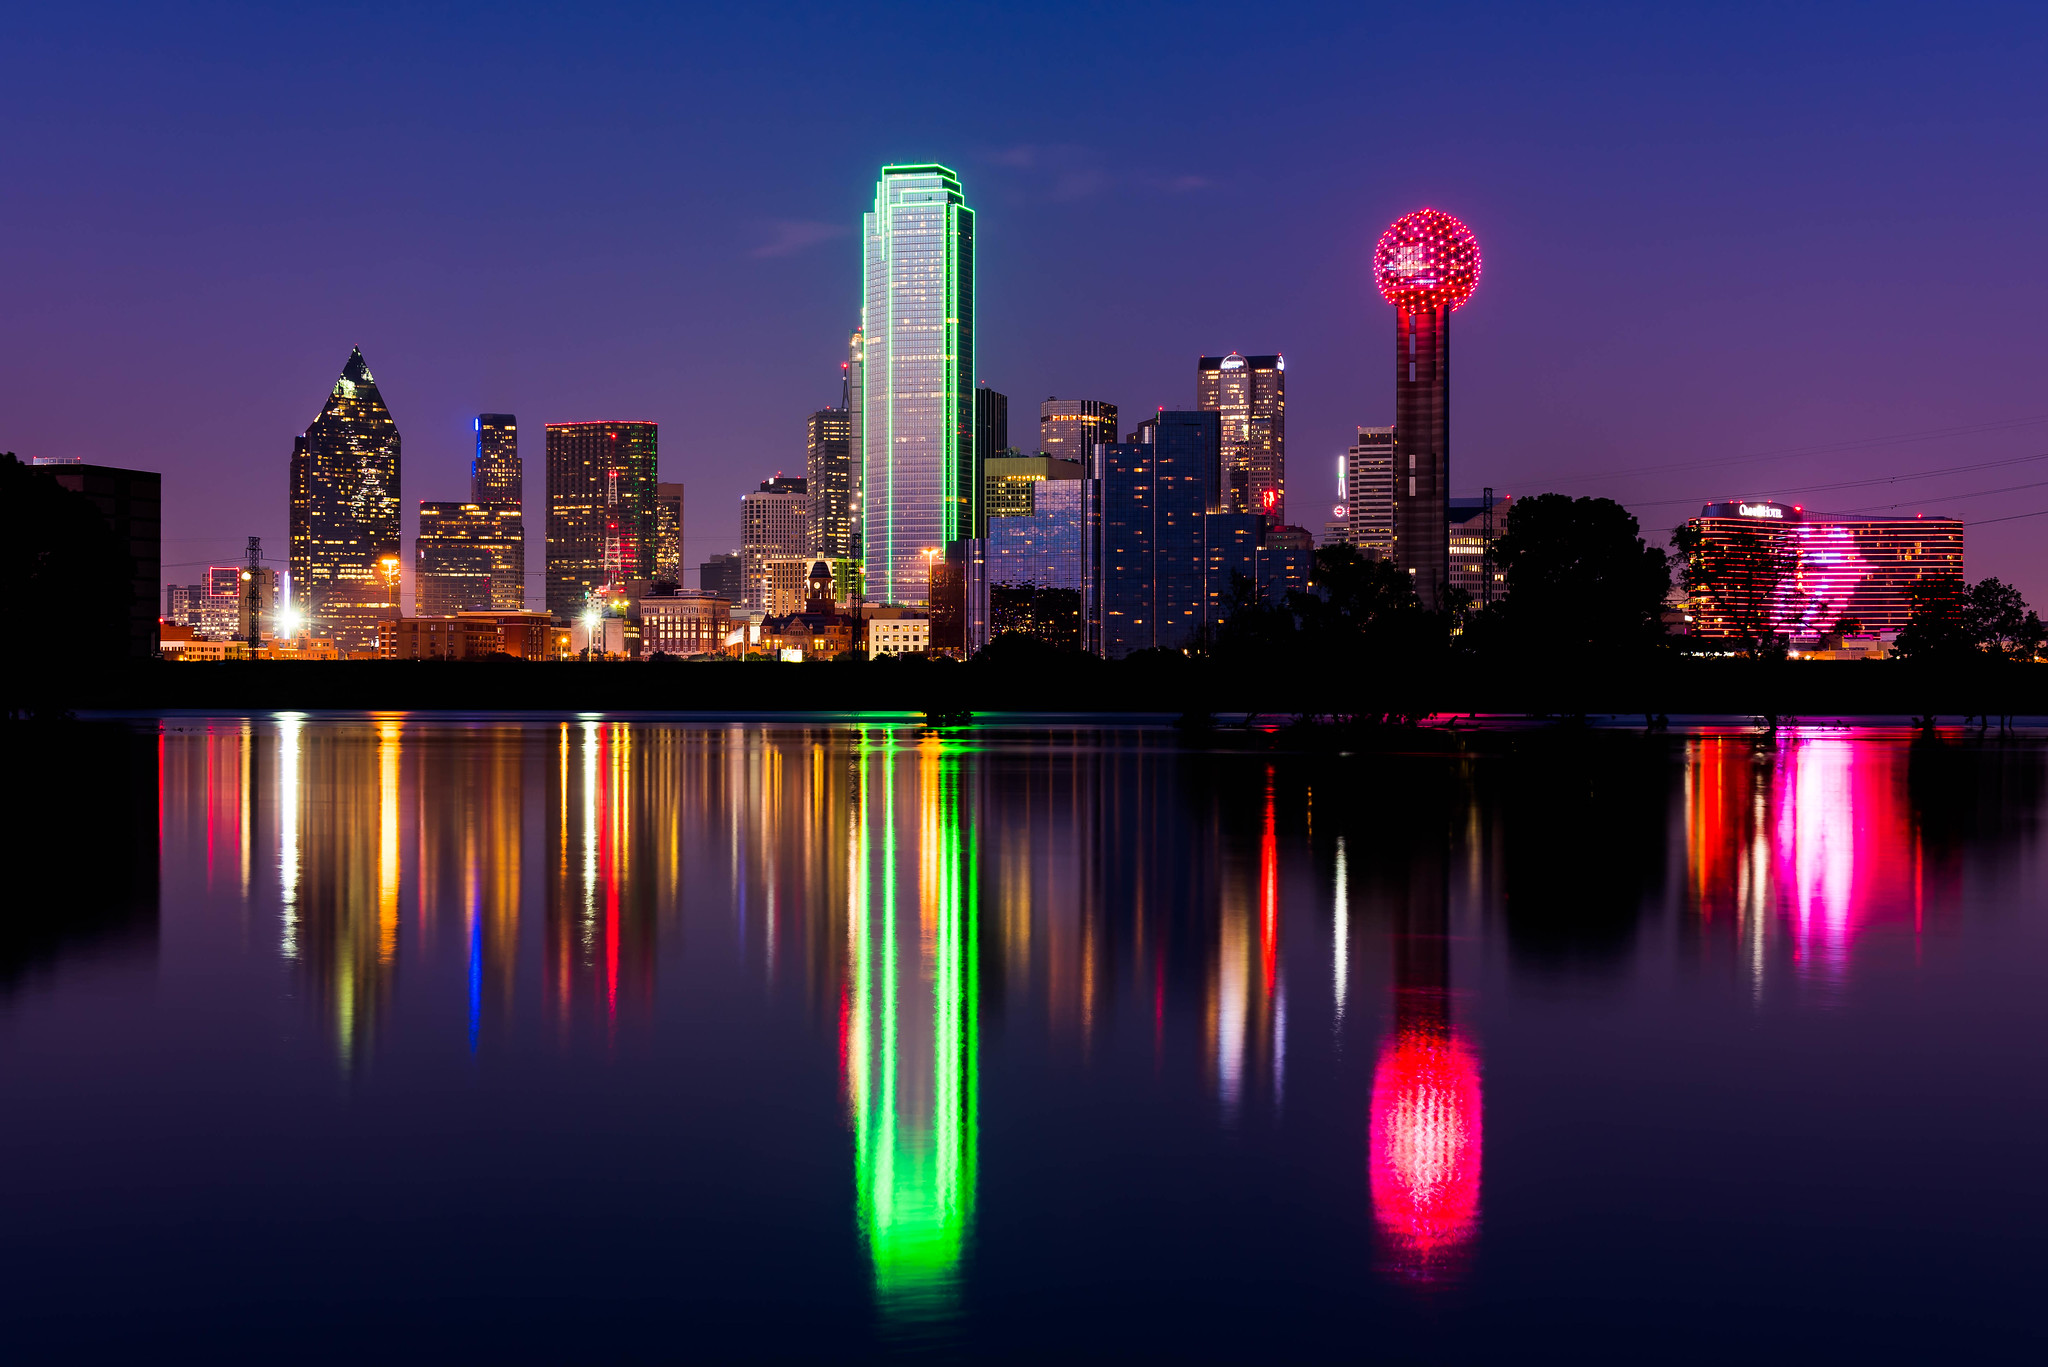
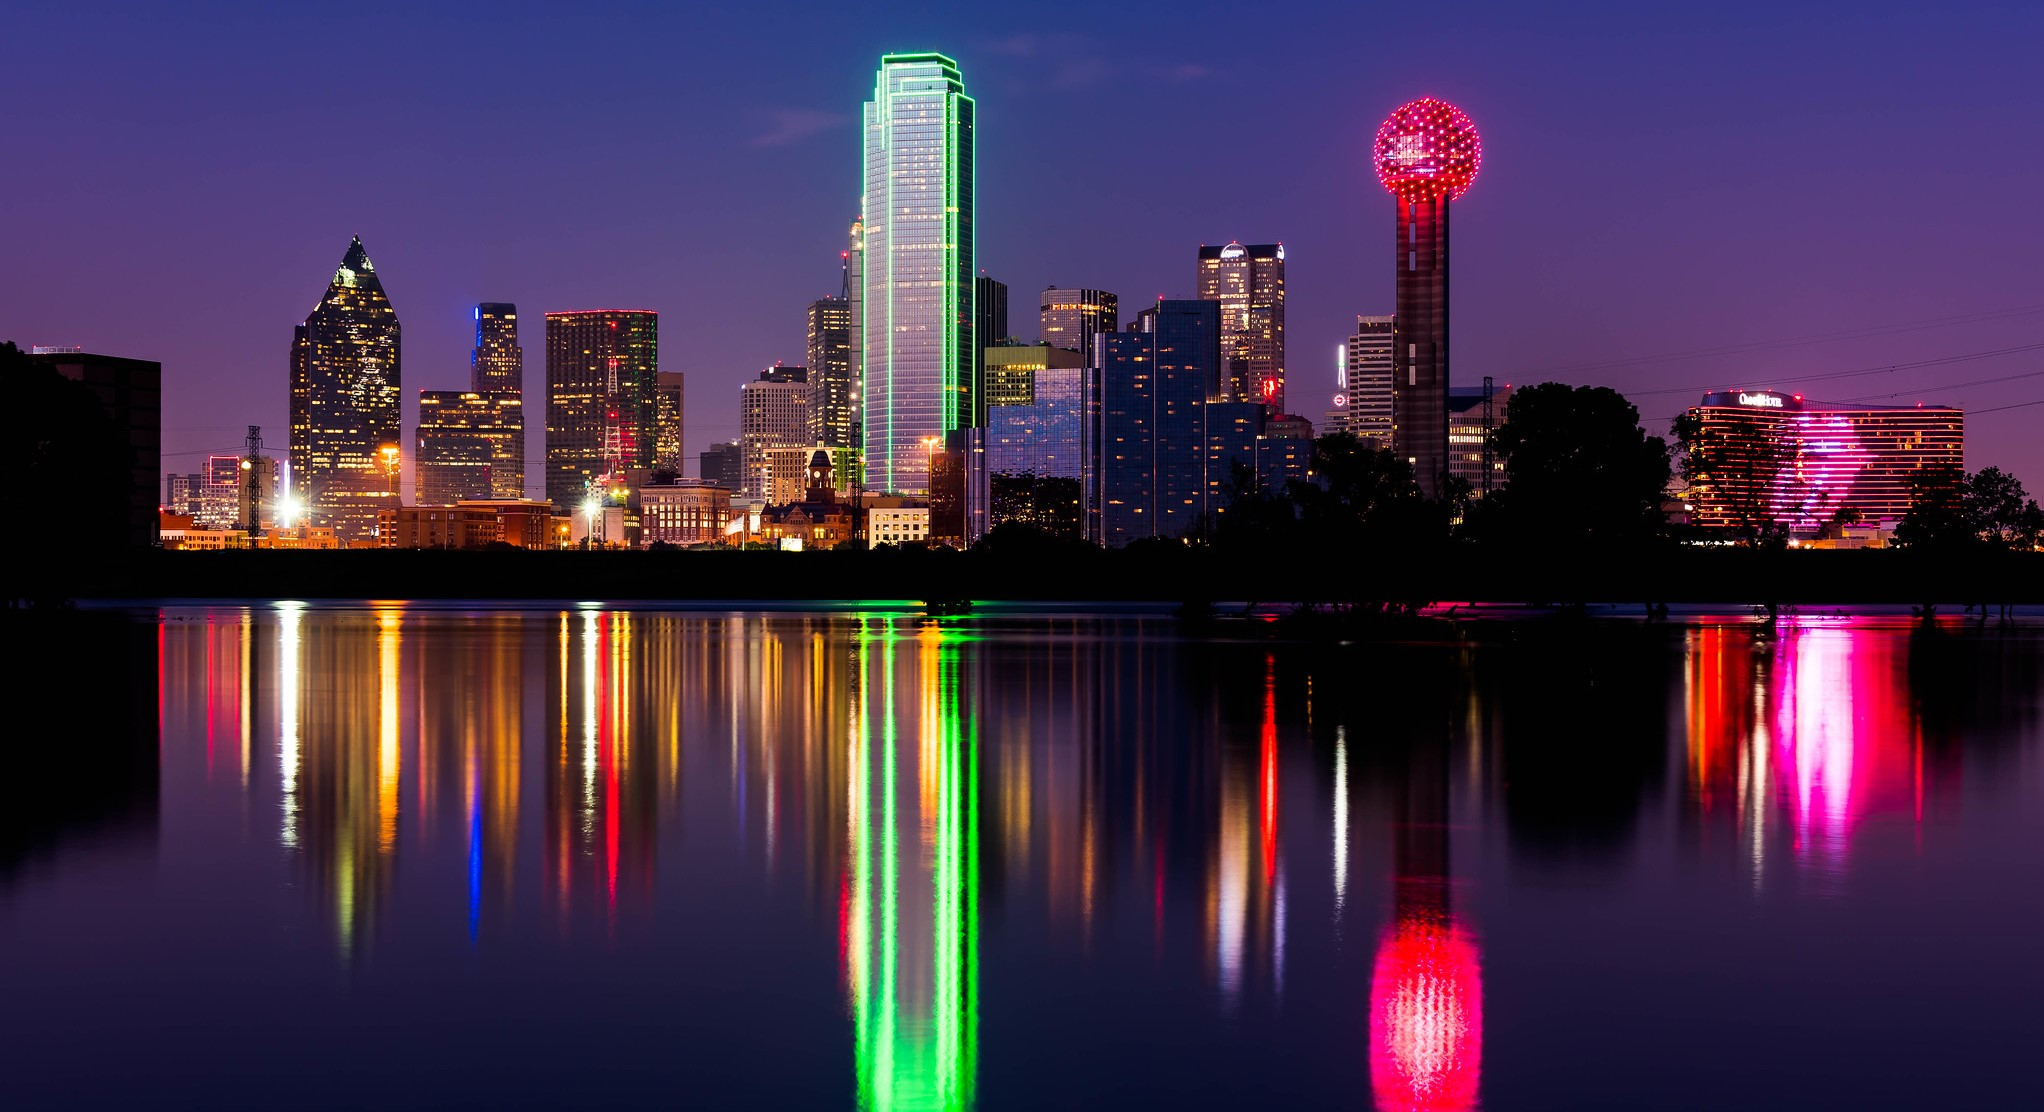
Added each section for work experience with images.

diff --git a/website/templates/website/welcome.html b/website/templates/website/welcome.html
@@ -5,7 +5,7 @@
 {% block title %}Welcome{% endblock %}
 
 {% block content %}
-    <div class="parallax-bg" style="--url: url({% static 'img/dallas_skyline.jpg' %});">
+    <div class="parallax-bg" style="background-size: 100% auto; --url: url({% static 'img/dallas_skyline.jpg' %});">
         <div class="container-fluid">
             <div class="row justify-content-center">
                 <div class="col-auto card-container mt-5 mb-5">
@@ -22,7 +22,7 @@
                                             </div>
                                         </div>
                                         <div class="col-8">
-                                            <h4>Preston Danielson</h4>
+                                            <h4><b>Preston Danielson</b></h4>
                                             Electrical/Software Engineer
                                         </div>
                                     </div>
@@ -52,86 +52,121 @@
         </div>
     </div>
 
-    <h1>Work Experience:</h1>
-    <p>Company | Start Date - End Date</p>
-    <p>Job Title</p>
-    <ul>
-        <li>Key point 1</li>
-        <li>Key point 2</li>
-        <li>Key point 3</li>
-    </ul>
+    <div class="d-flex p-3 bg-dark" style="justify-content:center">
+        <h4 style="color:white"><b>Work Experience</b></h4>
+    </div>
 
-    <p>Company | Start Date - End Date</p>
-    <p>Job Title</p>
-    <ul>
-        <li>Key point 1</li>
-        <li>Key point 2</li>
-        <li>Key point 3</li>
-    </ul>
+    <div class="d-flex p-2 bg-secondary" style="justify-content:center">
+        <h5 style="color:white"><b>Apex Systems</b></h5>
+    </div>
 
-    <p>Company | Start Date - End Date</p>
-    <p>Job Title</p>
-    <ul>
-        <li>Key point 1</li>
-        <li>Key point 2</li>
-        <li>Key point 3</li>
-    </ul>
+    <div class="parallax-bg" style="--url: url({% static 'img/boeing.jpg' %}); justify-content:center">
+        <div class="container-fluid">
+            <div class="row justify-content-center">
+                <div class="card mt-5 mb-5 p-2" style="max-width: 66%;">
+                    <div class="row g-0">
+                        <div class="col-md-4">
+                            <img src="{%static 'img/apex-systems.png' %}" class="img-fluid rounded-start" alt="...">
+                        </div>
+                        <div class="col-md-8">
+                            <div class="card-body">
+                                <h5 class="card-title">Engineering Consultant</h5>
+                                <p class="card-text"><b>2021-2022</b></p>
+                                <p class="card-text">
+                                    Sub-contracted work for Boeing to assist in research and development of robotic manufacturing systems.
+                                    Worked remotely with a small team of engineers on electrical design, PLC logic, robotics, and HMI development.
+                                </p>
+                            </div>
+                        </div>
+                    </div>
+                </div>
+            </div>
+        </div>
+    </div>
 
-    <p>Company | Start Date - End Date</p>
-    <p>Job Title</p>
-    <ul>
-        <li>Key point 1</li>
-        <li>Key point 2</li>
-        <li>Key point 3</li>
-    </ul>
+    <div class="d-flex p-2 bg-secondary" style="justify-content:center">
+        <h5 style="color:white"><b>Siemens Logistics</b></h5>
+    </div>
 
-    <p>Company | Start Date - End Date</p>
-    <p>Job Title</p>
-    <ul>
-        <li>Key point 1</li>
-        <li>Key point 2</li>
-        <li>Key point 3</li>
-    </ul>
+    <div class="parallax-bg" style="--url: url({% static 'img/package-sorting.jpg' %});">
+        <div class="container-fluid">
+            <div class="row justify-content-center">
+                <div class="card mt-5 mb-5 p-2" style="max-width: 66%;">
+                    <div class="row g-0">
+                        <div class="col-md-4">
+                            <img src="{%static 'img/siemens.jpg' %}" class="img-fluid rounded-start" alt="...">
+                        </div>
+                        <div class="col-md-8">
+                            <div class="card-body">
+                                <h5 class="card-title">Controls Engineer</h5>
+                                <p class="card-text"><b>2018-2021</b></p>
+                                <p class="card-text">
+                                    Sub-contracted work for Boeing to assist in research and development of robotic manufacturing systems.
+                                    Worked remotely with a small team of engineers on electrical design, PLC logic, robotics, and HMI development.
+                                </p>
+                            </div>
+                        </div>
+                    </div>
+                </div>
+            </div>
+        </div>
+    </div>
 
-    <p>Company | Start Date - End Date</p>
-    <p>Job Title</p>
-    <ul>
-        <li>Key point 1</li>
-        <li>Key point 2</li>
-        <li>Key point 3</li>
-    </ul>
+    <div class="d-flex p-2 bg-secondary" style="justify-content:center">
+        <h5 style="color:white"><b>Sabre Industries</b></h5>
+    </div>
 
-    <p>Company | Start Date - End Date</p>
-    <p>Job Title</p>
-    <ul>
-        <li>Key point 1</li>
-        <li>Key point 2</li>
-        <li>Key point 3</li>
-    </ul>
+    <div class="parallax-bg" style="--url: url({% static 'img/solar.jpg' %}); justify-content:center">
+        <div class="container-fluid">
+            <div class="row justify-content-center">
+                <div class="card mt-5 mb-5 p-2" style="max-width: 66%;">
+                    <div class="row g-0">
+                        <div class="col-md-4">
+                            <img src="{%static 'img/sabre.png' %}" class="img-fluid rounded-start" alt="...">
+                        </div>
+                        <div class="col-md-8">
+                            <div class="card-body">
+                                <h5 class="card-title">Electrical Engineering Intern</h5>
+                                <p class="card-text"><b>2017-2018</b></p>
+                                <p class="card-text">
+                                    Sub-contracted work for Boeing to assist in research and development of robotic manufacturing systems.
+                                    Worked remotely with a small team of engineers on electrical design, PLC logic, robotics, and HMI development.
+                                </p>
+                            </div>
+                        </div>
+                    </div>
+                </div>
+            </div>
+        </div>
+    </div>
 
-    <p>Company | Start Date - End Date</p>
-    <p>Job Title</p>
-    <ul>
-        <li>Key point 1</li>
-        <li>Key point 2</li>
-        <li>Key point 3</li>
-    </ul>
+    <div class="d-flex p-2 bg-secondary" style="justify-content:center">
+        <h5 style="color:white"><b>Fenway Group</b></h5>
+    </div>
 
-    <p>Company | Start Date - End Date</p>
-    <p>Job Title</p>
-    <ul>
-        <li>Key point 1</li>
-        <li>Key point 2</li>
-        <li>Key point 3</li>
-    </ul>
-
-    <p>Company | Start Date - End Date</p>
-    <p>Job Title</p>
-    <ul>
-        <li>Key point 1</li>
-        <li>Key point 2</li>
-        <li>Key point 3</li>
-    </ul>
+    <div class="parallax-bg" style="--url: url({% static 'img/southwest.jpg' %}); justify-content:center">
+        <div class="container-fluid">
+            <div class="row justify-content-center">
+                <div class="card mt-5 mb-5 p-2" style="max-width: 66%;">
+                    <div class="row g-0">
+                        <div class="col-md-4">
+                            <img src="{%static 'img/fenway-group.jpg' %}" class="img-fluid rounded-start" alt="...">
+                        </div>
+                        <div class="col-md-8">
+                            <div class="card-body">
+                                <h5 class="card-title">Software Engineering Consultant</h5>
+                                <p class="card-text"><b>2016-2017</b></p>
+                                <p class="card-text">
+                                    Sub-contracted work for Boeing to assist in research and development of robotic manufacturing systems.
+                                    Worked remotely with a small team of engineers on electrical design, PLC logic, robotics, and HMI development.
+                                </p>
+                            </div>
+                        </div>
+                    </div>
+                </div>
+            </div>
+        </div>
+    </div>
 
 
 {% endblock %}

diff --git a/website/static/website/css/custom.css b/website/static/website/css/custom.css
@@ -67,5 +67,6 @@
         var(--url);
     background-attachment: fixed;
     background-repeat: no-repeat;
-    background-size: 100% auto;
+    background-size: cover;
 }
+
